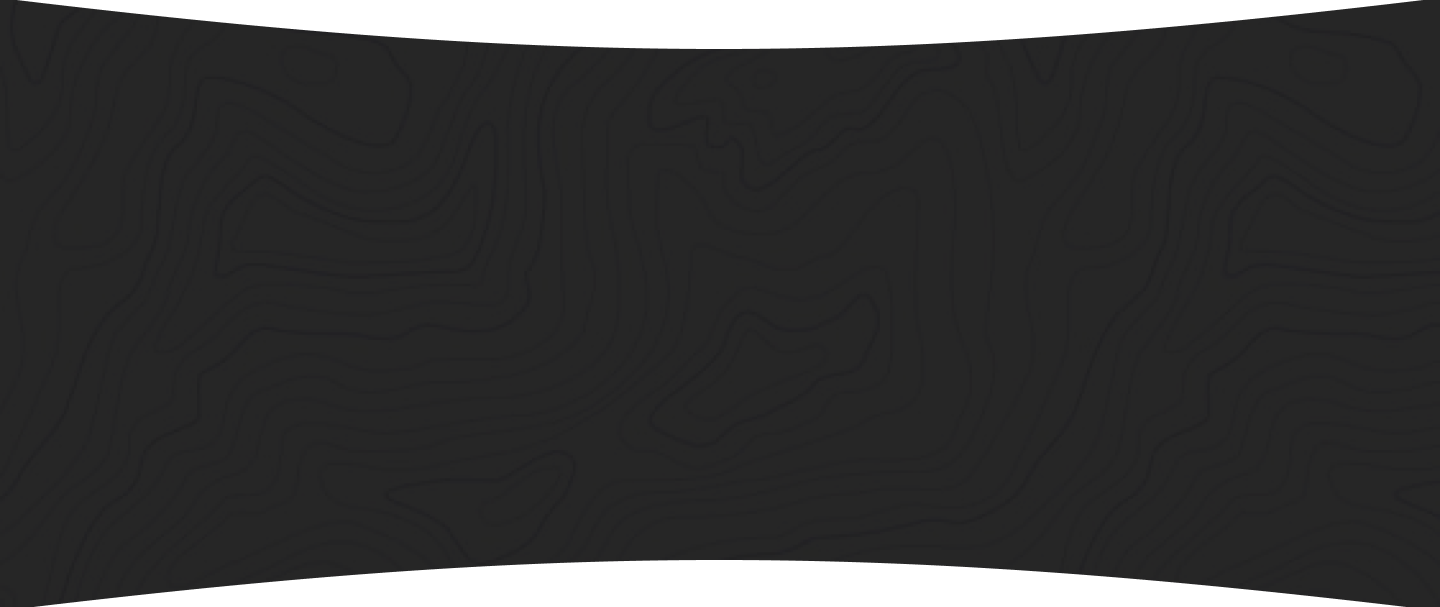
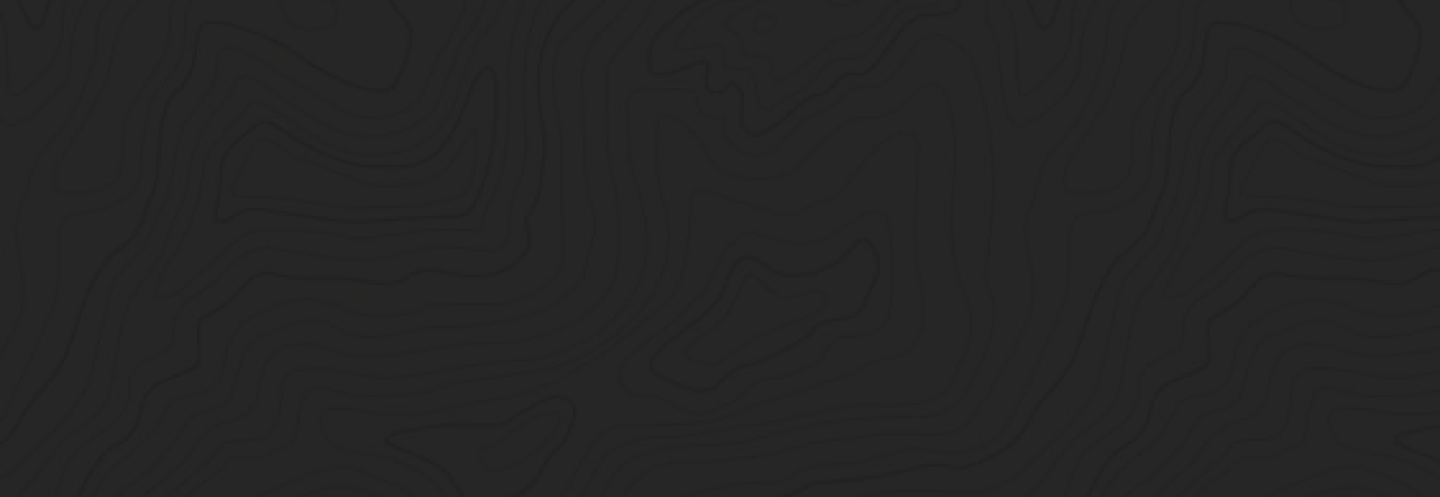
commit

Changed region(s): [[0.0, 0.9054, 1.0, 1.0], [0.0312, 0.0, 0.9688, 0.0905]]

diff --git a/src/components/pages/layoutPage.vue b/src/components/pages/layoutPage.vue
@@ -607,7 +607,14 @@
     <!-- End Reasons -->
 
     <!-- ======= Solutions Section ======= -->
-    <div class="Solutions p-5">
+    <div class="Solutions">
+      <div
+        style="
+          clip-path: ellipse(56% 100% at 49% 0%);
+          background-color: #fff;
+          height: 100px;
+        "
+      ></div>
       <div class="container">
         <div
           class="aos-init aos-animate animate__animated animate__fadeInDown d-flex justify-content-between p-5 mt-5"
@@ -1301,6 +1308,13 @@
           </div>
         </div>
       </div>
+      <div
+        style="
+          clip-path: ellipse(56% 100% at 49% 100%);
+          background-color: #fff;
+          height: 100px;
+        "
+      ></div>
     </div>
     <!-- End Solutions -->
 
